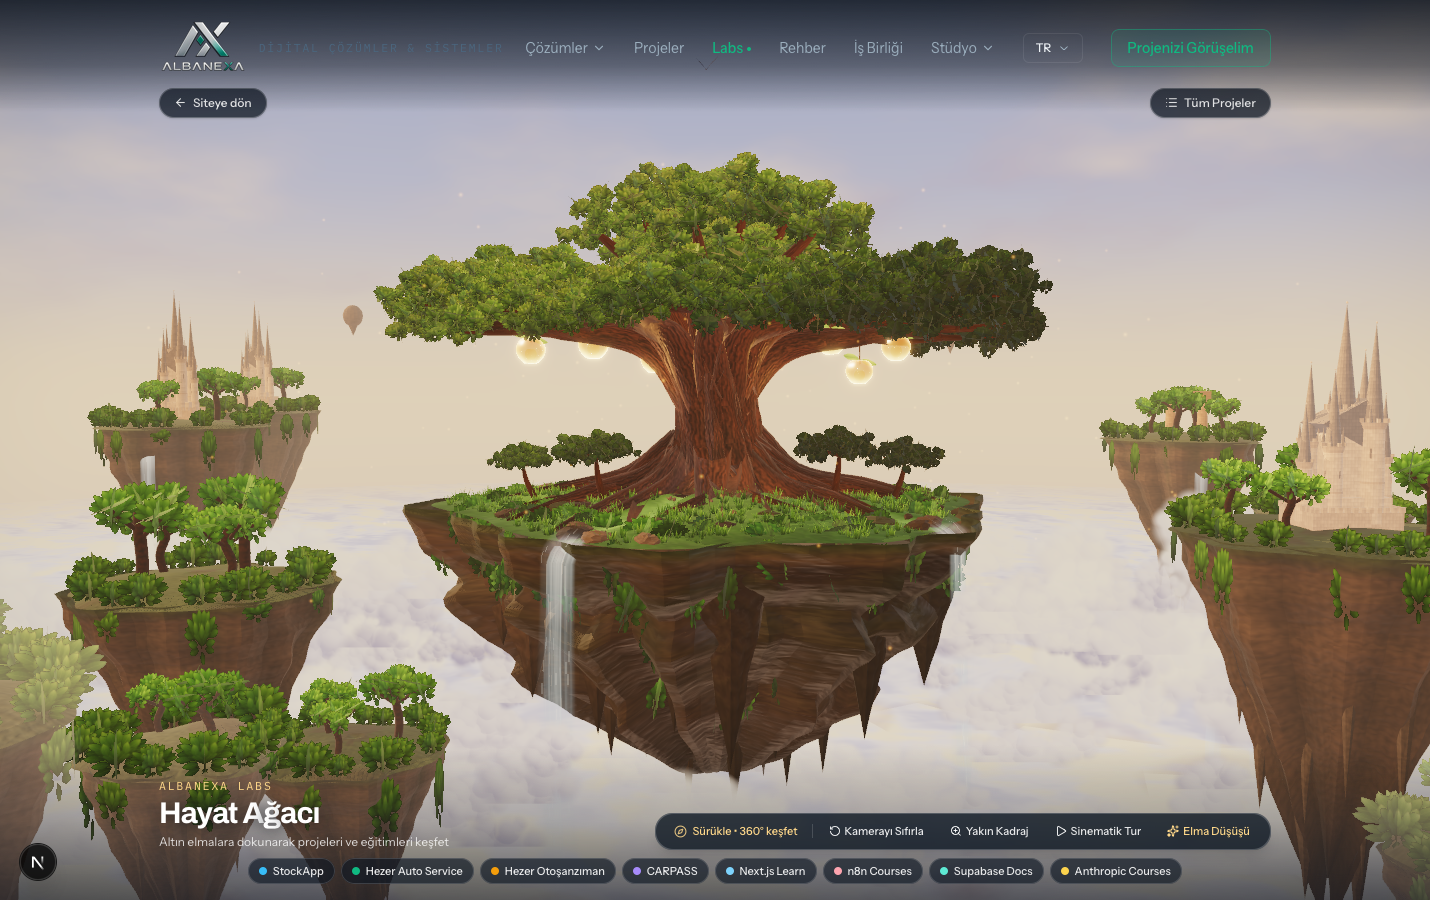
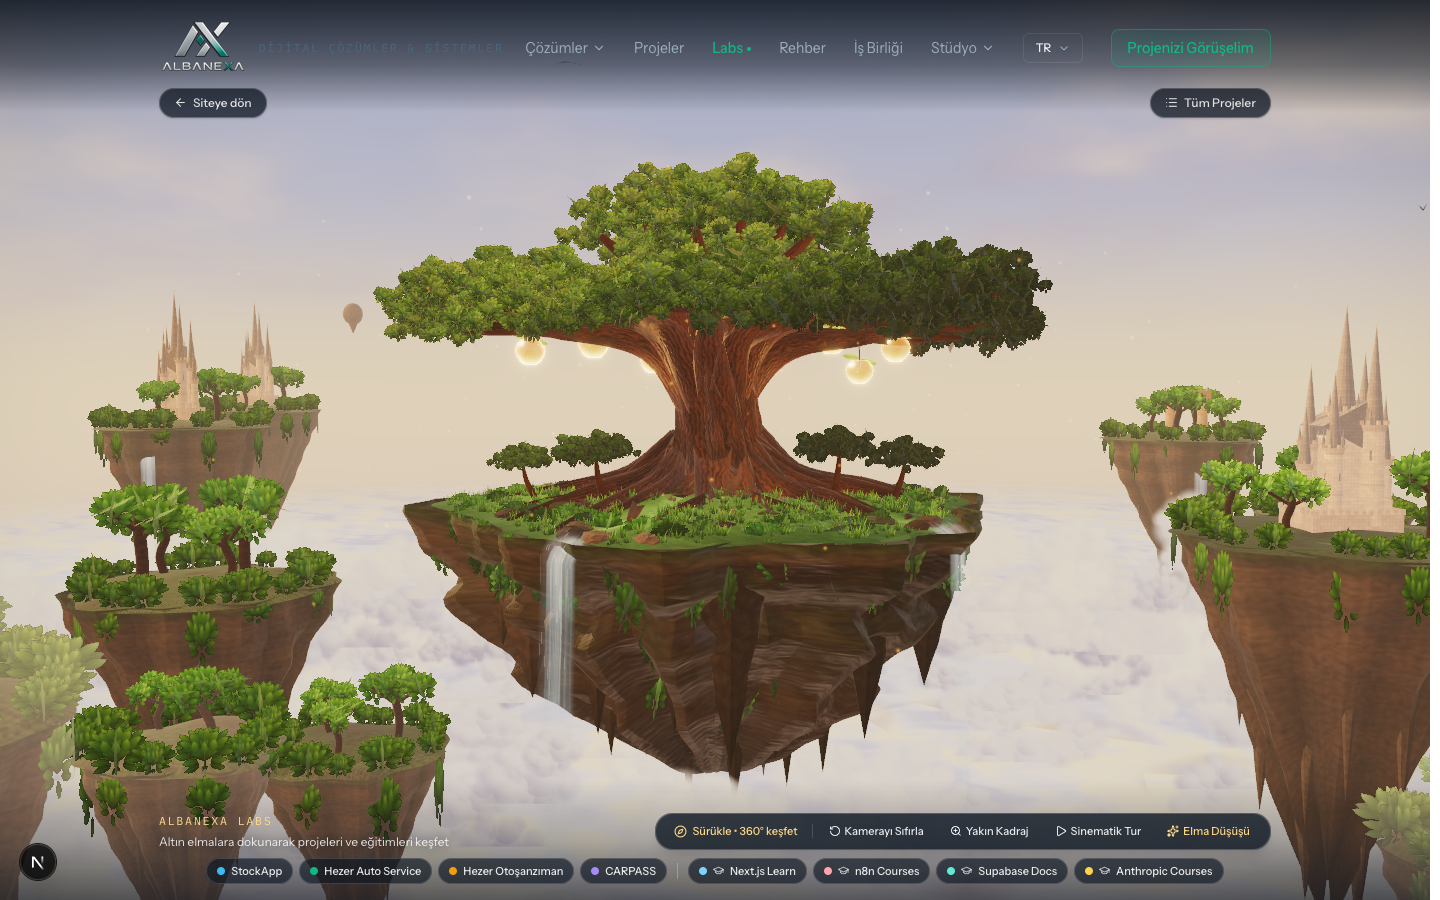
feat(labs): identify every apple on mobile, drop the Tree of Life heading
- Heading kept only for screen readers
- Touch: first tap on an apple or its chip shows a label card (type, name,
  summary, 'tap again to open') below the apple; second tap opens it
- Mobile/tablet: scrollable colour-matched legend strip of all apples,
  projects then learning links (cap icon); desktop pills grouped the same way
- Apple halo tinted toward its accent colour to match its chip

diff --git a/components/labs/LabsExperience.tsx b/components/labs/LabsExperience.tsx
@@ -17,6 +17,7 @@ import {
   Pause,
   ZoomIn,
   Sparkles as SparklesIcon,
+  GraduationCap,
 } from "lucide-react";
 
 import Navbar from "@/components/Navbar";
@@ -58,6 +59,11 @@ const ui = {
     tr: "Altın elmalara dokunarak projeleri ve eğitimleri keşfet",
     en: "Touch a golden apple to explore projects and learning links",
     de: "Berühre einen goldenen Apfel, um Projekte und Lernlinks zu entdecken",
+  },
+  hintTouch: {
+    tr: "Bir elmaya dokun, ne olduğunu gör · tekrar dokun, aç",
+    en: "Tap an apple to see what it is · tap again to open",
+    de: "Tippe auf einen Apfel, um ihn zu sehen · erneut tippen zum Öffnen",
   },
   dragDesktop: {
     tr: "Sürükle • 360° keşfet",
@@ -228,6 +234,21 @@ export default function LabsExperience({ heroStart = false }: { heroStart?: bool
     [activeSlug, reducedMotion, router, navigate],
   );
 
+  // Touch has no hover, so the first tap on an apple (or its chip) reveals what it is;
+  // tapping the same one again opens it.
+  const handleAppleTap = useCallback(
+    (slug: string) => {
+      if (isTouch && highlightedSlug !== slug) {
+        setAutoTour(false);
+        setHighlightedSlug(slug);
+        return;
+      }
+      setHighlightedSlug(null);
+      handleSelect(slug);
+    },
+    [isTouch, highlightedSlug, handleSelect],
+  );
+
   const triggerFallDemo = useCallback(() => {
     if (activeSlug) return;
     setAutoTour(false);
@@ -273,6 +294,9 @@ export default function LabsExperience({ heroStart = false }: { heroStart?: bool
   }, [projects, query, language]);
 
   const isEmpty = projects.length === 0;
+  // Legend order: projects first, then learning links (marked with a cap icon)
+  const legendItems = [...projects.filter((p) => !isTraining(p)), ...projects.filter(isTraining)];
+  const firstTrainingIndex = legendItems.findIndex(isTraining);
   // Directory panel shows the tree's fruit as two separate lists
   const directorySections = [
     { key: "trainings", title: ui.trainingsList[language], items: filtered.filter(isTraining) },
@@ -311,6 +335,9 @@ export default function LabsExperience({ heroStart = false }: { heroStart?: bool
             powerPreference: "high-performance",
             preserveDrawingBuffer: true,
           }}
+          onPointerMissed={() => {
+            if (isTouch) setHighlightedSlug(null);
+          }}
           onCreated={({ gl }) => {
             gl.toneMappingExposure = 0.9;
           }}
@@ -326,7 +353,8 @@ export default function LabsExperience({ heroStart = false }: { heroStart?: bool
             autoTour={autoTour}
             presetCommand={presetCommand}
             quality={quality}
-            onSelect={handleSelect}
+            touch={isTouch}
+            onSelect={handleAppleTap}
             onFallDone={handleFallDone}
             onIntroDone={() => setIntroDone(true)}
             onUserInteract={() => {
@@ -380,18 +408,51 @@ export default function LabsExperience({ heroStart = false }: { heroStart?: bool
                 >
                   {ui.eyebrow[language]}
                 </span>
-                <h1
-                  className="display text-2xl font-bold leading-tight text-white sm:text-3xl"
-                  style={{ textShadow: "0 2px 16px rgba(10,14,22,0.75)" }}
-                >
-                  {ui.heading[language]}
-                </h1>
+                <h1 className="sr-only">{ui.heading[language]}</h1>
                 {!isEmpty && (
-                  <p className="mt-0.5 text-xs text-white/80">
-                    {ui.hint[language]}
+                  <p
+                    className="mt-1 text-xs text-white/85"
+                    style={{ textShadow: "0 1px 10px rgba(10,14,22,0.7)" }}
+                  >
+                    {isTouch ? ui.hintTouch[language] : ui.hint[language]}
                   </p>
                 )}
               </div>
+
+              {/* Touch / narrow screens: scrollable colour-matched legend of every apple */}
+              {!isEmpty && (
+                <div
+                  className="pointer-events-auto -mx-4 w-[calc(100%+2rem)] overflow-x-auto px-4 lg:hidden [scrollbar-width:none] [&::-webkit-scrollbar]:hidden"
+                  aria-label={ui.directory[language]}
+                >
+                  <div className="mx-auto flex w-max items-center gap-1.5">
+                    {legendItems.map((p, i) => {
+                      const on = highlightedSlug === p.slug;
+                      return (
+                        <span key={p.id} className="flex items-center gap-1.5">
+                          {i === firstTrainingIndex && i > 0 && (
+                            <span className="mx-1 h-4 w-px bg-white/25" aria-hidden />
+                          )}
+                          <button
+                            type="button"
+                            onClick={() => handleAppleTap(p.slug)}
+                            aria-pressed={on}
+                            className={`inline-flex items-center gap-1.5 whitespace-nowrap rounded-full border px-2.5 py-1 text-[11px] font-medium backdrop-blur-sm transition-colors ${
+                              on
+                                ? "border-[#ffd88a]/80 bg-[#0d1622]/90 text-white"
+                                : "border-white/15 bg-[#0d1622]/65 text-white/90"
+                            }`}
+                          >
+                            <span className="h-2 w-2 rounded-full" style={{ background: p.accentColor }} />
+                            {isTraining(p) && <GraduationCap size={11} className="text-white/70" />}
+                            <span>{p.title}</span>
+                          </button>
+                        </span>
+                      );
+                    })}
+                  </div>
+                </div>
+              )}
 
               {/* 360° Interactive Camera Control Pill Bar */}
               <div className="pointer-events-auto flex flex-wrap items-center justify-center gap-1.5 rounded-full border border-white/20 bg-[#0d1622]/80 px-2.5 py-1.5 text-xs text-white/90 shadow-lg backdrop-blur-md">
@@ -463,9 +524,12 @@ export default function LabsExperience({ heroStart = false }: { heroStart?: bool
                 aria-label={ui.directory[language]}
                 className="pointer-events-auto mx-auto mt-2 hidden max-w-6xl flex-wrap items-center justify-center gap-1.5 px-5 lg:flex"
               >
-                {projects.map((p) => (
+                {legendItems.map((p, i) => (
+                  <span key={p.id} className="flex items-center gap-1.5">
+                  {i === firstTrainingIndex && i > 0 && (
+                    <span className="mx-1 h-4 w-px bg-white/25" aria-hidden />
+                  )}
                   <Link
-                    key={p.id}
                     href={`/labs/${p.slug}`}
                     onMouseEnter={() => setHighlightedSlug(p.slug)}
                     onMouseLeave={() => setHighlightedSlug(null)}
@@ -477,8 +541,10 @@ export default function LabsExperience({ heroStart = false }: { heroStart?: bool
                       className="h-2 w-2 rounded-full"
                       style={{ background: p.accentColor }}
                     />
+                    {isTraining(p) && <GraduationCap size={11} className="text-white/70" />}
                     <span>{p.title}</span>
                   </Link>
+                  </span>
                 ))}
               </div>
             )}

diff --git a/components/labs/scene/Apple.tsx b/components/labs/scene/Apple.tsx
@@ -276,6 +276,8 @@ interface AppleProps {
   active: boolean;
   dimmed: boolean;
   highlighted?: boolean;
+  /** Touch devices: fixed-size readable label + "tap again to open" hint (no hover there). */
+  touch?: boolean;
   onSelect: (slug: string) => void;
 }
 
@@ -285,6 +287,7 @@ export default function Apple({
   active,
   dimmed,
   highlighted = false,
+  touch = false,
   onSelect,
 }: AppleProps) {
   const group = useRef<THREE.Group>(null);
@@ -314,6 +317,13 @@ export default function Apple({
   );
 
   const isFocused = hovered || highlighted;
+  const isTrainingItem = anchor.project.category === "training";
+  // Gold halo tinted toward the item's accent colour: the same colour marks its chip in the
+  // legend strip, so each apple can be matched to its project/course without labels everywhere.
+  const haloColor = useMemo(
+    () => new THREE.Color("#ffb238").lerp(new THREE.Color(anchor.project.accentColor), 0.5),
+    [anchor.project.accentColor],
+  );
 
   useFrame((state) => {
     const g = group.current;
@@ -440,26 +450,33 @@ export default function Apple({
       </mesh>
 
       {/* Soft warm golden halo around the crystal fruit */}
-      <sprite scale={isFocused ? 1.48 : 1.08}>
+      <sprite scale={isFocused ? 1.6 : 1.15}>
         <spriteMaterial
           map={glowTex}
-          color="#ffb238"
+          color={haloColor}
           blending={THREE.AdditiveBlending}
           depthWrite={false}
           transparent
-          opacity={dimmed ? 0.08 : isFocused ? 0.42 : 0.22}
+          opacity={dimmed ? 0.08 : isFocused ? 0.5 : 0.3}
         />
       </sprite>
 
-      {/* Accessible project label on hover / keyboard highlight */}
+      {/* Label on hover / keyboard highlight / first tap (touch) */}
       {isFocused && !active && !dimmed && (
-        <Html center distanceFactor={11} position={[0, 0.64, 0]} style={{ pointerEvents: "none" }}>
+        <Html
+          center
+          distanceFactor={touch ? undefined : 11}
+          // Touch: card opens BELOW the apple (over the trunk) so it never covers the top buttons
+          position={touch ? [0, -0.42, 0] : [0, 0.64, 0]}
+          zIndexRange={[15, 0]}
+          style={{ pointerEvents: "none" }}
+        >
           <div
             style={{
-              transform: "translateY(-8px)",
-              minWidth: 168,
-              maxWidth: 220,
-              padding: "10px 14px",
+              transform: touch ? "translateY(calc(50% + 4px))" : "translateY(-8px)",
+              minWidth: touch ? 150 : 168,
+              maxWidth: touch ? 200 : 220,
+              padding: touch ? "8px 12px" : "10px 14px",
               borderRadius: 12,
               background: "rgba(12, 18, 28, 0.90)",
               border: `1px solid ${anchor.project.accentColor}77`,
@@ -471,22 +488,41 @@ export default function Apple({
           >
             <div
               style={{
+                fontSize: 9.5,
+                fontWeight: 600,
+                letterSpacing: "0.16em",
+                textTransform: "uppercase",
+                color: "#c9d4df",
+                opacity: 0.8,
+              }}
+            >
+              {isTrainingItem
+                ? language === "en" ? "Learning" : language === "de" ? "Lernen" : "Eğitim"
+                : language === "en" ? "Project" : language === "de" ? "Projekt" : "Proje"}
+            </div>
+            <div
+              style={{
                 fontSize: 13,
                 fontWeight: 700,
                 color: anchor.project.accentColor,
                 letterSpacing: "0.02em",
+                marginTop: 2,
               }}
             >
               {anchor.project.title}
             </div>
             <div style={{ fontSize: 11, color: "#b6c5d4", marginTop: 3, lineHeight: 1.35 }}>
-              {anchor.project.category === "training" && (
-                <span style={{ color: anchor.project.accentColor }}>
-                  {language === "en" ? "Learning" : language === "de" ? "Lernen" : "Eğitim"} ·{" "}
-                </span>
-              )}
               {pickText(anchor.project.summary, language)}
             </div>
+            {touch && (
+              <div style={{ fontSize: 10.5, color: "#ffd88a", marginTop: 6, fontWeight: 600 }}>
+                {language === "en"
+                  ? "Tap again to open"
+                  : language === "de"
+                    ? "Zum Öffnen erneut tippen"
+                    : "Açmak için tekrar dokun"}
+              </div>
+            )}
           </div>
         </Html>
       )}

diff --git a/components/labs/scene/LabsScene.tsx b/components/labs/scene/LabsScene.tsx
@@ -27,6 +27,7 @@ interface LabsSceneProps {
   autoTour: boolean;
   presetCommand: CameraPresetCommand | null;
   quality: "high" | "low";
+  touch?: boolean;
   onSelect: (slug: string) => void;
   onFallDone: () => void;
   onIntroDone: () => void;
@@ -44,6 +45,7 @@ export default function LabsScene({
   autoTour,
   presetCommand,
   quality,
+  touch = false,
   onSelect,
   onFallDone,
   onIntroDone,
@@ -102,6 +104,7 @@ export default function LabsScene({
           }
           dimmed={activeSlug !== null && activeSlug !== anchor.project.slug}
           highlighted={highlightedSlug === anchor.project.slug}
+          touch={touch}
           onSelect={onSelect}
         />
       ))}
